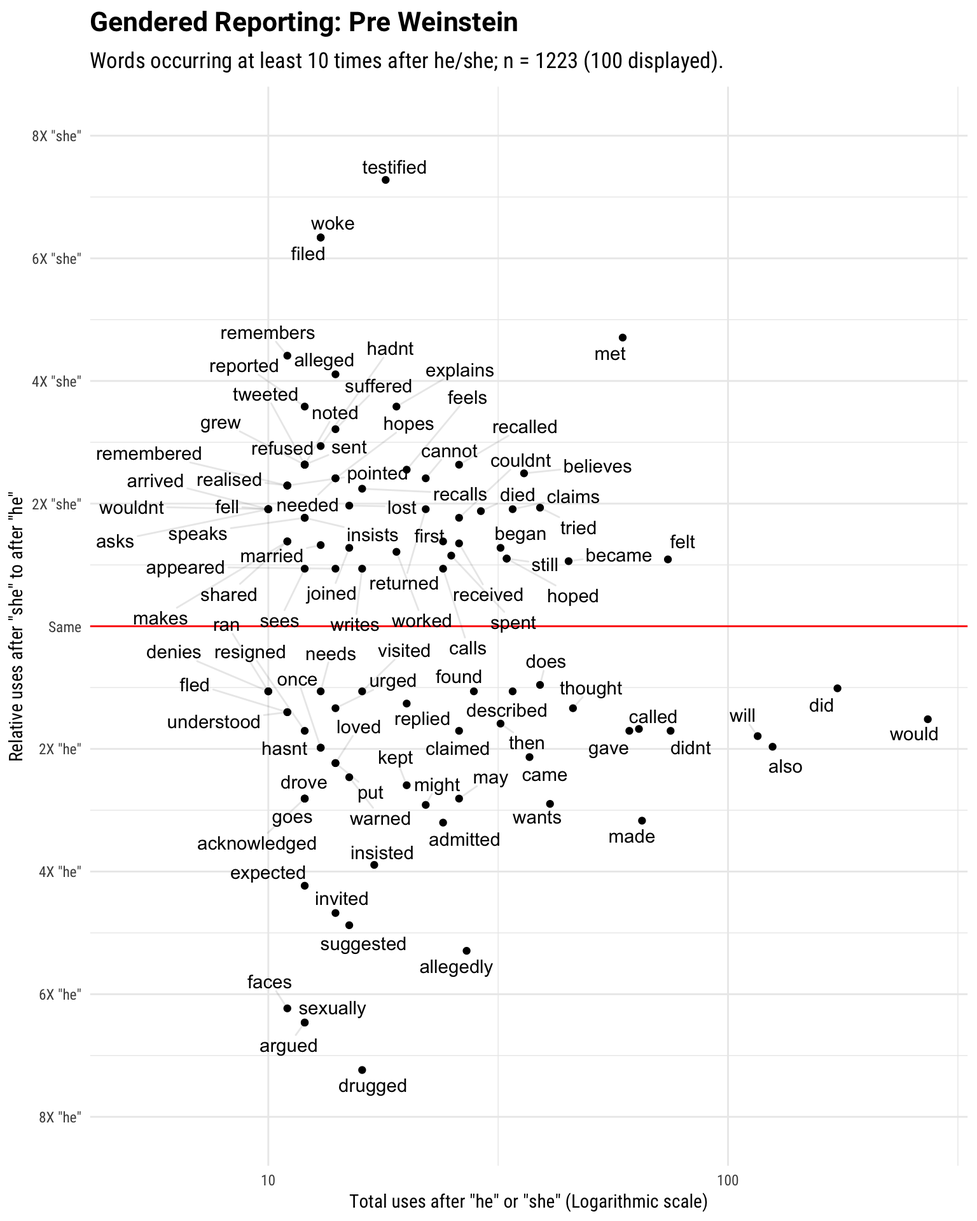
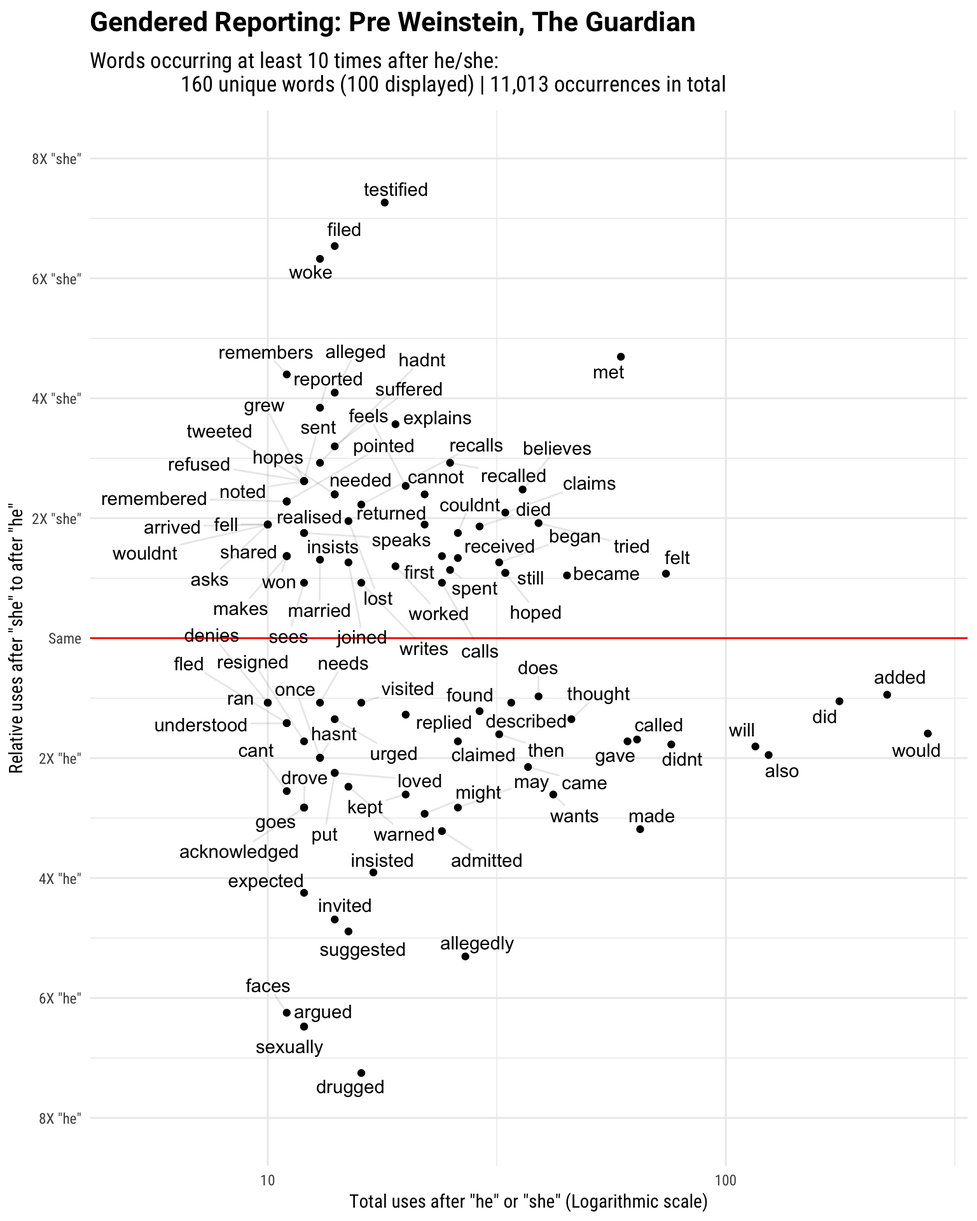
uma pic

diff --git a/content/post/2017-12-02-weinstein-effect.html b/content/post/2017-12-02-weinstein-effect.html
@@ -23,6 +23,10 @@ categories:
 </div>
 <div id="getting-full-text-news-articles" class="section level3">
 <h3>Getting Full Text News Articles</h3>
+<div class="figure">
+<img src="/img/guardian.png" />
+
+</div>
 <p>My first instinct was to check out the <a href="http://developer.nytimes.com/">NYT APIs</a>—it made sense, given that they <a href="https://www.nytimes.com/2017/10/05/us/harvey-weinstein-harassment-allegations.html?_r=0">broke the news</a> (along with the <a href="https://www.newyorker.com/news/news-desk/from-aggressive-overtures-to-sexual-assault-harvey-weinsteins-accusers-tell-their-stories">New Yorker</a>). Everything seemed to be working out just fine, until I realised you cannot get the full text—only the lead. Staying true to my strict data scientist training, I googled ‘full text newspaper api r’ and there it was: <code>GuardianR</code>. Sorry NYC mates, we reckon we will have to cross the pond for this one.</p>
 <p>Note that any one source will always be biased. If you are not familiar with the Guardian, it’s British and has a <a href="https://mediabiasfactcheck.com/the-guardian/">left-centre bias</a>. It might be prudent to pair it with a right-centre newspaper, however not all newspapers provide APIs (which in itself is another selection bias). Alas, we will move on just with the Guardian—insert idiom regarding salt. Finally, you will need to get a free API key from their <a href="http://open-platform.theguardian.com/">open source platform</a>. You still have to register, but you are only in danger if you vote Tory and stand on the left side of the escalator. Once you got it, install/load the package via CRAN:</p>
 <pre class="r"><code>library(GuardianR)
@@ -36,8 +40,8 @@ articles &lt;- get_guardian(keywords = &quot;sexual+harassment&quot;,
                          to.date = &quot;2017-11-30&quot;,
                          api.key = &quot;your-key-here&quot;)</code></pre>
 <p>Running the above chunk with your own key will get you all articles published in the Guardian in the last five years tagged under the news section ‘world’<a href="#fn2" class="footnoteRef" id="fnref2"><sup>2</sup></a> and containing the keywords ‘sexual harassment’ in the Guardian API. The keywords can be as simple or complicated as you want; just add more terms using the plus sign.</p>
-<p>You might think the time frame is a bit skewed towards the ‘pre’ era—the news broke out on October 5, 2017. Going all the way back five full years, we are comparing 58 months worth of ‘pre’ to only 2 months of ‘post’ Weinstein. However, blog posts are not written in real-time, so you get to see the final result to bear with me. And no, this is not at all like scientists running 514 regressions and failing to mention this tidbit in their publication. <a href="https://xkcd.com/882/">Relevant xkcd.</a></p>
-<p>No, the reason is purely pragmatism. Running the code and getting the articles on real-time would slow down this site. Hence, I am working with downloaded data. Feel free to subset the data to see whether the results change if you use a different cut-off point. Also, if you go back the same amount of time (i.e. two months before October 5), that would lead to 183 articles for pre and 121 articles for the post time period—it has blown up alright. Going back five years gets us 1224 articles in total; so we actually have 1103-pre and 121-post articles (89% to 11%). That’s more or less cross-validation ratio (well, a bit on the less side maybe), and we will roll with that.</p>
+<p>You might think the time frame is a bit skewed towards the ‘pre’ era—the news broke out on October 5, 2017. Going all the way back five full years, we are comparing 58 months worth of ‘pre’ to only 2 months of ‘post’ Weinstein. However, luckily for you blog posts are not written in real-time, meaning you get to see the final result so just bear with me. And no, this is not at all like scientists running 514 regressions and failing to mention this tidbit in their publication. <a href="https://xkcd.com/882/">Relevant xkcd.</a></p>
+<p>No, the reason is pure pragmatism. Running the code and getting the articles on real-time would slow down this site. Hence, I am working with downloaded data. Feel free to subset the data to see whether the results change if you use a different cut-off point. Also, if you go back the same amount of time (i.e. two months before October 5), that would lead to 183 articles for pre and 121 articles for the post time period—it has blown up alright. Going back five years gets us 1224 articles in total; so we actually have 1103-pre and 121-post articles (89% to 11%). That’s more or less cross-validation ratio (well, a bit on the less side maybe), and we will roll with that.</p>
 <pre class="r"><code>articles &lt;- read.csv(&quot;articles.csv&quot;, stringsAsFactors = FALSE)
 dim(articles)</code></pre>
 <pre><code>## [1] 1224   27</code></pre>
@@ -53,15 +57,17 @@ dim(articles)</code></pre>
 ## [19] &quot;allowUgc&quot;             &quot;isPremoderated&quot;       &quot;byline&quot;              
 ## [22] &quot;publication&quot;          &quot;newspaperEditionDate&quot; &quot;shouldHideAdverts&quot;   
 ## [25] &quot;liveBloggingNow&quot;      &quot;commentCloseDate&quot;     &quot;body&quot;</code></pre>
-<p>We get a bunch of variables (27), but we don’t really need most of them for our analysis:</p>
-<pre class="r"><code>want.var &lt;- c(&quot;webPublicationDate&quot;, &quot;body&quot;) #laziest subset for only two variables
+<p>We get a bunch of variables (27) with that call, but we won’t be needing most of them for our analysis:</p>
+<pre class="r"><code>#laziest subset for only two variables
+want.var &lt;- c(&quot;webPublicationDate&quot;, &quot;body&quot;)
 want &lt;- which(colnames(articles) %in% want.var)
 articles &lt;- articles[, want]
 articles$webPublicationDate &lt;- as.Date.factor(articles$webPublicationDate)</code></pre>
 <p>The body contains the full-text, however it’s in HTML:</p>
 <pre class="r"><code>dplyr::glimpse(articles$body[1])</code></pre>
 <pre><code>##  chr &quot;&lt;p&gt;Numerous women have accused Don Burke of indecent assault, sexual harassment and bullying during the 1980s a&quot;| __truncated__</code></pre>
-<p>At this point, I must admit I resorted to hacking a bit. I’m sure there is a more elegant solution here. I’ll go with this <a href="https://stackoverflow.com/a/17227415/6550364">SO answer</a> to extract text from HTML:</p>
+<p>At this point, I must admit I resorted to hacking a bit. I’m sure there is a more elegant solution here. I’ll go with this <a href="https://stackoverflow.com/a/17227415/6550364">SO answer</a> to extract text from HTML. Basically, the cleaning function removes the HTML using regex. Unfortunately, this does not clear up various apostrophes found in the text. For that, we switch the encoding from ASCII to byte:</p>
+<pre class="r"><code>articles$body &lt;- iconv(articles$body, &quot;&quot;, &quot;ASCII&quot;, &quot;byte&quot;)</code></pre>
 <pre class="r"><code>cleanFun &lt;- function(htmlString) {
   return(gsub(&quot;&lt;.*?&gt;&quot;, &quot;&quot;, htmlString))
 }
@@ -69,9 +75,7 @@ articles$webPublicationDate &lt;- as.Date.factor(articles$webPublicationDate)</c
 articles$body &lt;- cleanFun(articles$body)
 dplyr::glimpse(articles$body[1])</code></pre>
 <pre><code>##  chr &quot;Numerous women have accused Don Burke of indecent assault, sexual harassment and bullying during the 1980s and &quot;| __truncated__</code></pre>
-<p>Unfortunately, this does not clear up various apostrophes. For that, we switch the encoding from ASCII to byte:</p>
-<pre class="r"><code>articles$body &lt;- iconv(articles$body, &quot;&quot;, &quot;ASCII&quot;, &quot;byte&quot;)</code></pre>
-<p>This will end up cutting some legitimate apostrophes (e.g. “hasn’t”, “didn’t” etc.) in some cases, but we will fix that later on.</p>
+<p>This will end up cutting some legitimate apostrophes (e.g. “hasn’t”, “didn’t” to “hasn”, “didn”) in some cases, but we will fix that later on.</p>
 <p>Let’s split the data on date October 5, 2017 and get rid of the date column afterwards:</p>
 <pre class="r"><code>#You can also use negative index for subsetting
 articles.before &lt;- articles[articles$webPublicationDate &lt; &quot;2017-10-05&quot;, ]
@@ -96,7 +100,7 @@ bigrams.before &lt;- full.text.before %&gt;%
                 token = &quot;ngrams&quot;,
                 n = 2)
 nrow(bigrams.before)</code></pre>
-<pre><code>## [1] 1635193</code></pre>
+<pre><code>## [1] 1311051</code></pre>
 <pre class="r"><code>head(bigrams.before)</code></pre>
 <pre><code>##        bigram
 ## 1    the walk
@@ -129,17 +133,17 @@ he.she.words.before &lt;- he.she.words.before %&gt;%
 #10 random samples; the numbers are row numbers not counts
 set.seed(1895)
 dplyr::sample_n(he.she.words.before, 10)</code></pre>
-<pre><code>##       word1     word2
-## 4496    she expressed
-## 3811    she testified
-## 5331     he    worked
-## 12112   she        is
-## 4056    she      said
-## 3256     he     tells
-## 4036     he     could
-## 4980     he      gave
-## 9511     he      knew
-## 9606     he       was</code></pre>
+<pre><code>##       word1  word2
+## 4403    she doesnt
+## 3732     he    was
+## 5222    she  wasnt
+## 11862   she   said
+## 3972    she  wrote
+## 3189     he   says
+## 3952    she   sees
+## 4878     he    was
+## 9314     he   went
+## 9408    she  noted</code></pre>
 <pre class="r"><code>#Transform words into counts, add +1 for log transformation
 he.she.counts.before &lt;- he.she.words.before %&gt;%
   count(word1, word2) %&gt;%
@@ -156,13 +160,13 @@ head(he.she.counts.before)</code></pre>
 <pre><code>## # A tibble: 6 x 6
 ##       word2           he          she total log.ratio abs.ratio
 ##       &lt;chr&gt;        &lt;dbl&gt;        &lt;dbl&gt; &lt;dbl&gt;     &lt;dbl&gt;     &lt;dbl&gt;
-## 1 testified 0.0002155869 0.0026861662    18  3.639207  3.639207
-## 2     awoke 0.0001077935 0.0010446202     6  3.276637  3.276637
-## 3     filed 0.0002155869 0.0019400090    13  3.169722  3.169722
-## 4      woke 0.0002155869 0.0019400090    13  3.169722  3.169722
-## 5    misses 0.0001077935 0.0007461573     4  2.791210  2.791210
-## 6   quickly 0.0001077935 0.0007461573     4  2.791210  2.791210</code></pre>
-<p>A couple of observations. First, n-grams overlap, resulting in 1.6M observations (and this is only the pre-period). However, we will only use the gendered subset,<a href="#fn4" class="footnoteRef" id="fnref4"><sup>4</sup></a> which is much more smaller in size. Second, as we define the log ratio as she / he, the sign of the log ratio determines the direction (positive for she, negative for he), while the absolute value of the log ratio is just the effect size (without direction).</p>
+## 1 testified 0.0002194908 0.0027206771    18  3.631734  3.631734
+## 2     awoke 0.0001097454 0.0010580411     6  3.269163  3.269163
+## 3     filed 0.0002194908 0.0021160822    14  3.269163  3.269163
+## 4      woke 0.0002194908 0.0019649335    13  3.162248  3.162248
+## 5    misses 0.0001097454 0.0007557437     4  2.783737  2.783737
+## 6   quickly 0.0001097454 0.0007557437     4  2.783737  2.783737</code></pre>
+<p>A couple of observations. First, n-grams overlap, resulting in 1.6M observations (and this is only the pre-period). However, we will only use the gendered subset,<a href="#fn4" class="footnoteRef" id="fnref4"><sup>4</sup></a> which is much more smaller in size. Second, as we define the log ratio as (she / he), the sign of the log ratio determines the direction (positive for she, negative for he), while the absolute value of the log ratio is just the effect size (without direction).</p>
 <p>Good stuff, no? Wait until you see the visualisations.</p>
 </div>
 <div id="let-there-be-ggraphs" class="section level3">
@@ -181,7 +185,7 @@ theme_set(theme_roboto())</code></pre>
 <p><code>.25x   .5x   x   2x    4x</code></p>
 <p>whereas David uses directions, i.e.</p>
 <p><code>'more he'    4x    2x    x   2x    4x    'more she'</code></p>
-<p>In both cases, x denotes the same frequency (equally likely) of usage. I don’t think one approach is necessarily better than the other, but I went with David’s approach. Finally, I filter out non-verbs plus ‘have’ and only plot verbs that occur at least five times. If you are serious about filtering out classes of words (say a certain sentiment or adjectives), you should locate a dictionary from a NLP package and extract the relevant words from there. Here, I am doing it quite ad-hoc (and manually):</p>
+<p>In both cases, x denotes the same frequency (equally likely) of usage. I don’t think one approach is necessarily better than the other, but I went with David’s approach. Finally, I filter out non-verbs plus ‘have’ and only plot verbs that occur at least five times. If you are serious about filtering out classes of words (say a certain sentiment or adjectives), you should locate a dictionary from an NLP package and extract the relevant words from there. Here, I am doing it quite ad-hoc (and manually):</p>
 <pre class="r"><code>he.she.counts.before %&gt;%
   filter(!word2 %in% c(&quot;himself&quot;, &quot;herself&quot;, &quot;ever&quot;, &quot;quickly&quot;,
                        &quot;actually&quot;, &quot;sexually&quot;, &quot;allegedly&quot;, &quot;have&quot;),
@@ -196,15 +200,15 @@ theme_set(theme_roboto())</code></pre>
   labs(x = &quot;&quot;,
        y = &#39;Relative appearance after &quot;she&quot; compared to &quot;he&quot;&#39;,
        fill = &quot;&quot;,
-       title = &quot;Pre Weinstein: 2012-2017 Guardian Articles on Sexual Harassment&quot;,
+       title = &quot;Pre Weinstein: 2012-17 The Guardian Articles on Sexual Harassment&quot;,
        subtitle = &quot;Top 15 Most Gendered (Skewed) Verbs after he/she; at least 5 occurrences.&quot;) +
   scale_y_continuous(labels = c(&quot;8X&quot;, &quot;6X&quot;, &quot;4X&quot;, &quot;2X&quot;, &quot;Same&quot;, &quot;2X&quot;, &quot;4X&quot;, &quot;6X&quot;, &quot;8X&quot;),
                      breaks = seq(-4, 4)) +
   guides(fill = guide_legend(reverse = TRUE)) +
   expand_limits(y = c(-4, 4))</code></pre>
 <p><img src="/post/2017-12-02-weinstein-effect_files/figure-html/unnamed-chunk-11-1.png" width="768" /></p>
-<p>Several immediate and depressing trends emerge in the data. The top active verbs for women cluster on bringing charges: ‘testified’, ‘filed’; whereas male verbs seem to react to those with ‘argued’, ‘faces’, ‘acknowledges’, and ‘apologized’. Women ‘awoke’ and ‘woke’, matching the more violent male verbs such as ‘drugged’, ‘assaulted’, ‘punched’, and ‘raped’. ‘Alleged’ occurs more than four times after she relative to he, and there is no mention of denial (‘denied’, ‘denies’) after he.</p>
-<p>Another way of visualising the gendered differences is to plot their frequency. This time, we are not limited to just verbs; however we still filter out some uninteresting words. There are additional <code>ggplot</code> and <code>ggrepel</code> arguments in this plot. First, I added two reference lines: a red y-intercept with <code>geom_hline</code> and an invisible x-intercept using <code>geom_vline</code>. Do you not love tidy grammar? Last but not least, I insert <code>geom_text_repel</code> to give us more readability: <code>segment.alpha</code> controls the line transparency, while the <code>force</code> argument governs the aggressiveness of the jittering algorithm:</p>
+<p>Several immediate and depressing trends emerge from the data. The top active verbs for women cluster on bringing charges: ‘testified’, ‘filed’; whereas male verbs seem to react to those with ‘argued’, ‘faces’, ‘acknowledges’, and ‘apologized’. Women ‘awoke’ and ‘woke’, matching the more violent male verbs such as ‘drugged’, ‘assaulted’, ‘punched’, and ‘raped’. ‘Alleged’ occurs more than four times after she relative to he, and there is no mention of denial (e.g. ‘denied’, ‘denies’) after he.</p>
+<p>Another way of visualising the gendered differences is to plot their magnitude in addition to their frequency . This time, we are not limited to just verbs; however we still filter out some uninteresting words. There are additional <code>ggplot</code> and <code>ggrepel</code> arguments in this plot. First, I added two reference lines: a red y-intercept with <code>geom_hline</code> to act as a baseline and an invisible x-intercept using <code>geom_vline</code> to give the labels more space on the left-hand side. Do you not love tidy grammar? Last but not least, I insert <code>geom_text_repel</code> to give us more readability: <code>segment.alpha</code> controls the line transparency, while the <code>force</code> argument governs the aggressiveness of the jittering algorithm. We could supply it with a <code>fill</code> argument that corresponds to a factor variable to highlight a certain characteristic (say, total occurrence), however there is not much meaningful variation there in our case.</p>
 <pre class="r"><code>he.she.counts.before %&gt;%
   filter(!word2 %in% c(&quot;himself&quot;, &quot;herself&quot;, &quot;she&quot;, &quot;too&quot;, &quot;later&quot;, &quot;apos&quot;, &quot;just&quot;, &quot;says&quot;),
          total &gt;= 10) %&gt;%
@@ -213,33 +217,33 @@ theme_set(theme_roboto())</code></pre>
   geom_point() +
   geom_vline(xintercept = 5, color = &quot;NA&quot;) +
   geom_hline(yintercept = 0, color = &quot;red&quot;) +
-  scale_x_log10(breaks = c(10, 100, 1000),
-                labels = comma_format()) +
+  scale_x_log10(breaks = c(10, 100, 1000)) +
   geom_text_repel(aes(label = word2), segment.alpha = .1, force = 2) +
   scale_y_continuous(breaks = seq(-4, 4),
                      labels = c(&#39;8X &quot;he&quot;&#39;, &#39;6X &quot;he&quot;&#39;, &#39;4X &quot;he&quot;&#39;, &#39;2X &quot;he&quot;&#39;, &quot;Same&quot;,
                                 &#39;2X &quot;she&quot;&#39;, &#39;4X &quot;she&quot;&#39;, &#39;6X &quot;she&quot;&#39;, &#39;8X &quot;she&quot;&#39;)) +
   labs(x = &#39;Total uses after &quot;he&quot; or &quot;she&quot; (Logarithmic scale)&#39;,
        y = &#39;Relative uses after &quot;she&quot; to after &quot;he&quot;&#39;,
-       title = &quot;Gendered Reporting: Pre Weinstein&quot;,
-       subtitle = &quot;Words occurring at least 10 times after he/she; n = 1223 (100 displayed).&quot;) +
+       title = &quot;Gendered Reporting: Pre Weinstein, The Guardian&quot;,
+       subtitle = &quot;Words occurring at least 10 times after he/she:
+                  160 unique words (100 displayed) | 11,013 occurrences in total&quot;) +
   expand_limits(y = c(4, -4))</code></pre>
 <p><img src="/post/2017-12-02-weinstein-effect_files/figure-html/unnamed-chunk-12-1.png" width="768" /></p>
 <p>Plotting frequencies complement the first plot quite nicely. We can infer reported characteristics more easily when there is a tangible baseline. Words around the red line occur after she or he more or less equally: the y-axis determines the relational effect size (with regards to gender), and the x-axis displays the total amount of occurrences. Some additional insights: we see that ‘sexually’ and ‘allegedly’ popping up after he quite frequently. There is also the verb ‘admitted’, as well as ‘denies’ (even though visually it is located above the red line, if you follow the grey segment, it’s located around 1X ‘he’). For women, words like ‘suffered’, ‘died’ are added to the mix. There are also nuances regarding the tense; ‘claims’ follows she twice more than he, while ‘claimed’ is twice likely to come after he.<a href="#fn6" class="footnoteRef" id="fnref6"><sup>6</sup></a></p>
 <p>Moving on to the post-Weinstein period (‘the effect’), I quietly run the same code, and plot the equivalent graphics below. Some caveats: with the smaller sample size, I lowered the inclusion threshold to 2. Additionally, although it is top 15 most skewed verbs per gender, because of frequent ties, it ends up having more than that at the end.</p>
 <p><img src="/post/2017-12-02-weinstein-effect_files/figure-html/unnamed-chunk-14-1.png" width="768" /></p>
-<p>After the scandal broke, we see that women are reported to have ‘complained’, ‘hoped’, and ‘became’. On the other hand, men are vehemently denying the accusations, with ‘denies’ and ‘denied’ being the most skewed verbs following he.</p>
+<p>After the scandal broke, we see that women are reported to have ‘complained’, ‘hoped’, and ‘became’. On the other hand, men are vehemently denying the accusations, with ‘denies’ and ‘denied’ being the most skewed verbs following he. Random point: in the pre-period, it’s ‘apologized’, in the post-period, it’s ‘apologised’. Maybe Brexit can manifest in mysterious ways.</p>
 <p><img src="/post/2017-12-02-weinstein-effect_files/figure-html/unnamed-chunk-15-1.png" width="768" /></p>
-<p>Again we turn to the frequency plot to infer more. In addition to denial, men are also reported to use words such as ‘categorically’ and ‘utterly’. Both ‘claims’ and ‘claimed’ occur more after she, not repeating the earlier dynamic regarding the tense. In addition, we don’t see ‘alleged’ or ‘allegedly’ featured in the plot at all. How much of this change can we attribute to the effect? At a glance, we definitely see a difference. For example, verbs display a good variation for both genders. The post-frequency plot features less violent words than the pre-frequency plot. There is a lot more ‘denial’ and not much ‘allegations’ in the post-Weinstein period.</p>
-<p>Some are definitely data artefacts. The post-frequency plot is ‘cleaner’—in addition to the smaller <em>n</em>—because the cut-off point is set to more than one occurrence: remove the filter and all the violence is back in. Some are probably reporter/reporting bias plus the prevalent gendered thinking (that occurs both consciously and not). And perhaps some are genuine effects—true signal. It is still too early to pass judgement on whether the Weinstein effect will result in tangible, positive change. Currently, we are just getting a small, limited glimpse at the available data.</p>
-<p>Hopefully you managed to enjoy this rather depressing data exercise using the <code>tidytext</code> package. As usual, the underlying code is available on <a href="https://github.com/ciflikli/website/tree/master/content/post/2017-12-02-weinstein-effect.Rmd">GitHub</a>. N-grams are powerful. Imagine the possibilities: assume you have access to a rich dataset (say, minimum 100K very long articles/essays). You can construct n-grams sequentially; i.e. 2-grams; 3-grams, 4-grams etc., separate the words, and subset for gendered pronouns. This would give you access to structures like “he” + “word” + “her” (direct action) and “she” + “word” + “word” + “him” (allowing for adjective + verb). Then it would be possible to look for all kinds of interactions, revealing their underlying structure. I will be reporting more on this front, until I move onto image processing (looking at you, <code>keras</code>).</p>
+<p>Again we turn to the frequency plot to infer more. In addition to denial, men are also reported to use words such as ‘categorically’ and ‘utterly’. Both ‘claims’ and ‘claimed’ occur more after she, not repeating the earlier dynamic regarding the tense. In addition, we don’t see ‘alleged’ or ‘allegedly’ featured in the plot at all. How much of this change can we attribute to the effect? At a glance, we definitely see a difference. For example, verbs display a good variation for both genders. The post-frequency plot features less violent words than the pre-frequency plot. There is a lot more ‘denying’ and not much ‘alleging’ in the post-Weinstein period.</p>
+<p>Some are definitely data artefacts. The post-frequency plot is ‘cleaner’—in addition to (and directly caused by) the smaller <em>n</em>—because the cut-off point is set to ‘more than once’: if we remove the filter, all the violence and harassment terms are back in. Some are probably reporter/reporting biases plus the prevalent gendered thinking (that occurs both on a conscious level and below). And perhaps some are genuine effects—true signal. It is still too early to pass judgement on whether the Weinstein effect will result in tangible, positive change. Currently, all we can get is a short, limited glimpse at the available data.</p>
+<p>Hopefully you managed to enjoy this rather depressing data undertaking using the <code>tidytext</code> package. As usual, the underlying code is available on <a href="https://github.com/ciflikli/website/tree/master/content/post/2017-12-02-weinstein-effect.Rmd">GitHub</a>. N-grams are powerful. Imagine the possibilities: assume you have access to a rich dataset (say, minimum 100K very long articles/essays). You can construct n-grams sequentially; i.e. 2-grams; 3-grams, 4-grams etc., separate the words, and subset for gendered pronouns. This would give you access to structures like “he” + “word” + “her” (direct action) and “she” + “word” + “word” + “him” (allowing for adjective + verb). Then it would be possible to look for all kinds of interactions, revealing their underlying structure. I will be reporting more on this front, until I move onto image processing (looking at you, <code>keras</code>).</p>
 </div>
 <div class="footnotes">
 <hr />
 <ol>
 <li id="fn1"><p>Assuming you are reading this just after it’s written (December 2017).<a href="#fnref1">↩</a></p></li>
 <li id="fn2"><p>For a pool of possible news section names, consult the <a href="https://cran.rstudio.com/web/packages/GuardianR/GuardianR.pdf">package manual</a>.<a href="#fnref2">↩</a></p></li>
-<li id="fn3"><p>Get it? A bigram. Two words. It is.<a href="#fnref3">↩</a></p></li>
+<li id="fn3"><p>Get it? A bigram. Two words. It is!<a href="#fnref3">↩</a></p></li>
 <li id="fn4"><p>As with most of the research on gender, I will have to treat it as a binary variable rather than a continuous one as it manifests itself in real-life.<a href="#fnref4">↩</a></p></li>
 <li id="fn5"><p>Yes, you should load all the required libraries first thing. <a href="https://ih0.redbubble.net/image.90820803.1852/flat,550x550,075,f.u3.jpg">I know.</a><a href="#fnref5">↩</a></p></li>
 <li id="fn6"><p>This one mentioned in the comments section of Julia’s post; however I am not sure how much of that transfers here.<a href="#fnref6">↩</a></p></li>
